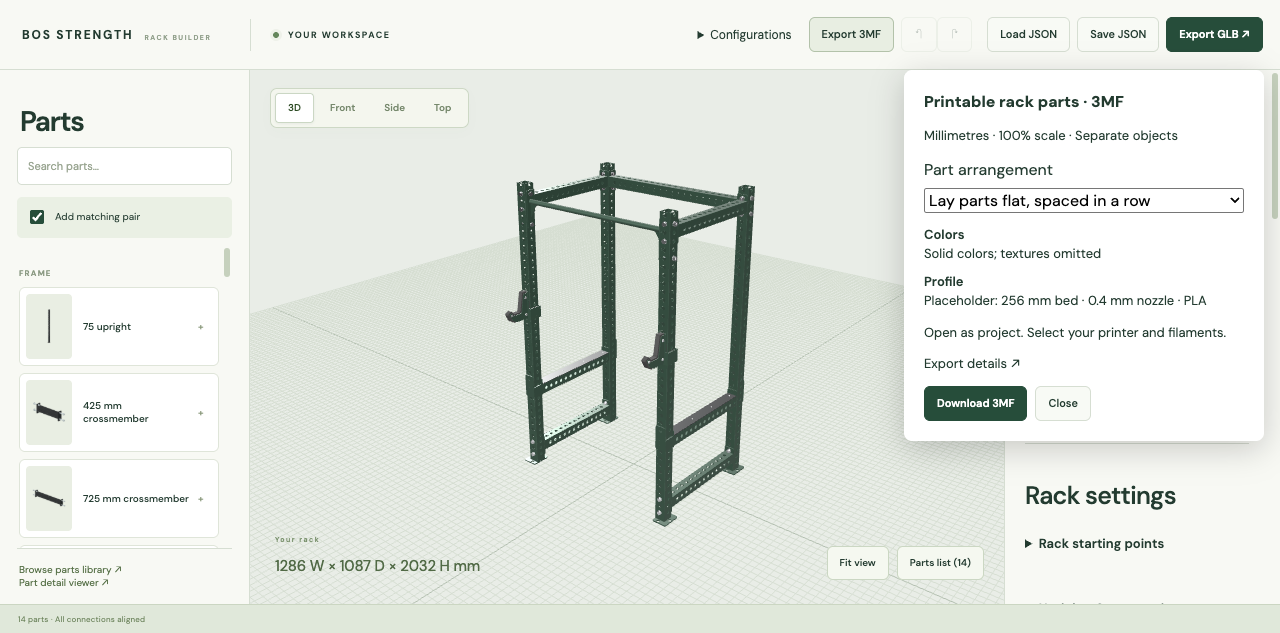
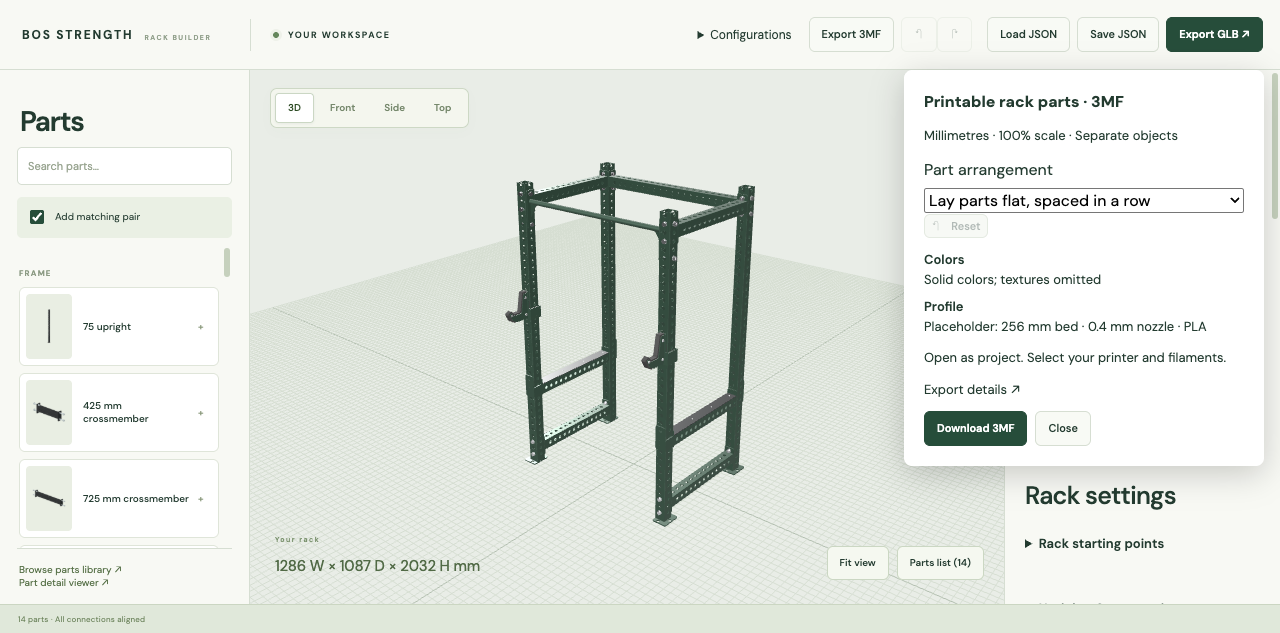
Use shared reset control for print arrangement defaults

Changed region(s): [[0.6875, 0.3302, 1.0, 0.7504]]

diff --git a/src/components/PrintExport.tsx b/src/components/PrintExport.tsx
@@ -1,10 +1,12 @@
 import './print-export.css';
+import { ResetButton } from './ResetButton.tsx';
 import { useEffect, useRef, useState } from 'react';
 import type { BuilderStore } from '../state/builder-store.ts';
 import type { PrintLayout } from '../exports/print-3mf.ts';
 import type { PrintRequest, PrintResponse } from '../exports/print-worker.ts';
+const DEFAULT_LAYOUT: PrintLayout = 'laid-out';
 export function PrintExport({store}: {store:BuilderStore}) {
-  const [open,setOpen]=useState(false), [layout,setLayout]=useState<PrintLayout>('laid-out'), [busy,setBusy]=useState(false);
+  const [open,setOpen]=useState(false), [layout,setLayout]=useState<PrintLayout>(DEFAULT_LAYOUT), [busy,setBusy]=useState(false);
   const worker = useRef<Worker|null>(null);
   useEffect(()=>()=>worker.current?.terminate(),[]);
   const cancel = () => { worker.current?.terminate(); worker.current=null; setBusy(false); store.status('Print export cancelled.'); };
@@ -35,6 +37,8 @@ export function PrintExport({store}: {store:BuilderStore}) {
       <label>Part arrangement <select aria-label="Print arrangement" disabled={busy} value={layout} onChange={e=>setLayout(e.target.value as PrintLayout)}>
         <option value="laid-out">Lay parts flat, spaced in a row</option><option value="assembled">Keep rack assembly coordinates (Z up)</option>
       </select></label>
+      <ResetButton label="print arrangement" value="laid out" changed={layout !== DEFAULT_LAYOUT}
+        disabled={busy} onReset={()=>setLayout(DEFAULT_LAYOUT)} />
       <dl className="print-export-facts">
         <dt>Colors</dt><dd>Solid colors; textures omitted</dd>
         <dt>Profile</dt><dd>Placeholder: 256 mm bed · 0.4 mm nozzle · PLA</dd>

diff --git a/docs/evidence/issue-3/README.md b/docs/evidence/issue-3/README.md
@@ -5,7 +5,7 @@ merged in `12f180a` for final integration. The additive BuilderPage import confl
 was resolved preserving export, editor reset/swap controls and standard-size controls. No deployment or issue closure.
 
 - Isolated `npm ci`: passed, no shared node_modules.
-- `npm test`: **171 passed, 0 failed/skipped**, 63.0 seconds on the final integration.
+- `npm test`: **171 passed, 0 failed/skipped**, 96.5 seconds after the reset follow-up.
 - `npm run build`: typecheck and Vite production build passed. Vite reports its
   >500 kB bundle advisory (main bundle and CAD workers); no build errors.
 - 34 print-specific tests include all 28 catalog builders, Float32/Manifold/XML
@@ -42,3 +42,10 @@ contracts. The vendor stream must wire its helper as `catalog.attribution` when
 registering definitions. Actual unmerged logo/vendor CAD end-to-end coverage is
 pending those streams; their geometry/validation is not duplicated here. The
 export options screenshot reflects #30 concise copy and main's #28 size controls.
+
+Reset follow-up: fetched origin/main again (201374f; already integrated) before
+final checks. The export arrangement uses the shared ResetButton and a named
+`laid-out` default. Browser verification changed to assembly coordinates,
+confirmed reset enabled, reset to laid-out and confirmed reset disabled. The
+control is also disabled during export. No new numeric controls are introduced;
+main's NumericControl defaultValue and viewport swap pipeline are untouched.

diff --git a/docs/print-export.md b/docs/print-export.md
@@ -157,3 +157,7 @@ The export panel follows #30's concise-copy contract: scale, color limitation an
 placeholder-profile data remain visible; explanatory prose lives in this document.
 The #28 standard size controls and existing reset/swap helpers are preserved from
 main; print export neither replaces them nor adds independent dimension controls.
+
+The export arrangement's shared `ResetButton` restores the `laid-out` default.
+It is disabled at the default and while a print worker is active. This transient
+export preference does not mutate the rack document, save state or edit history.
